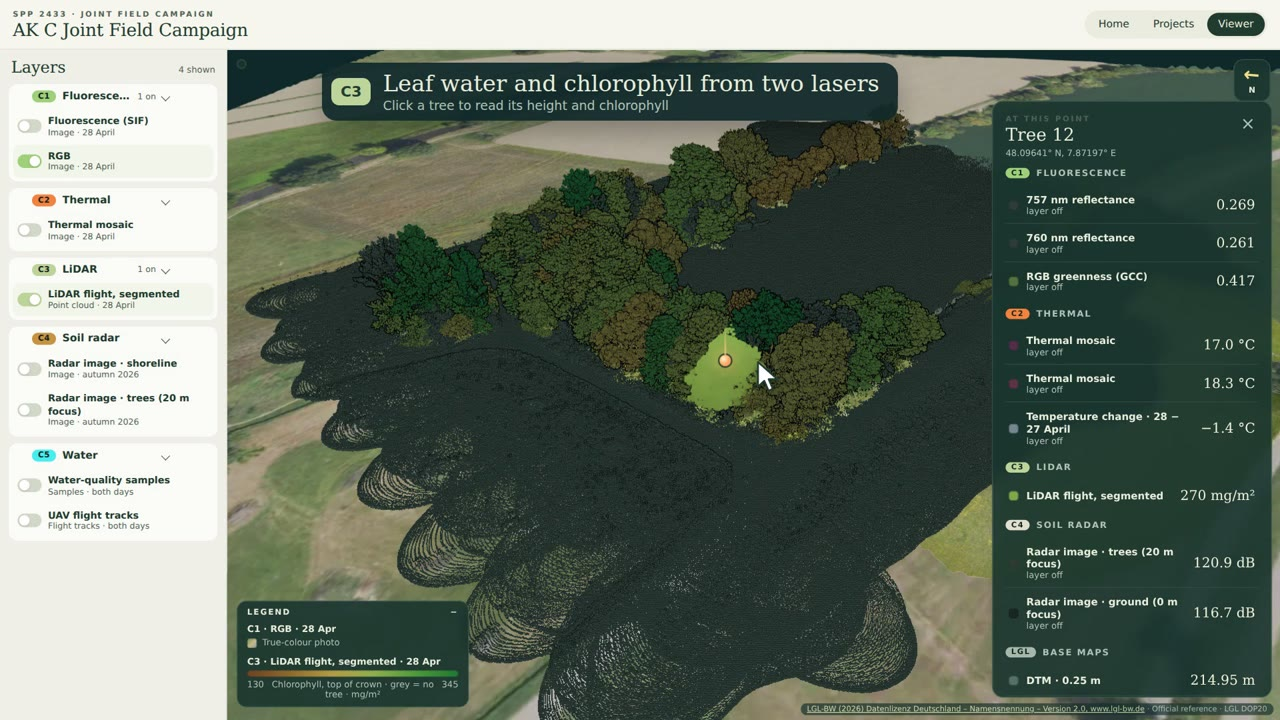
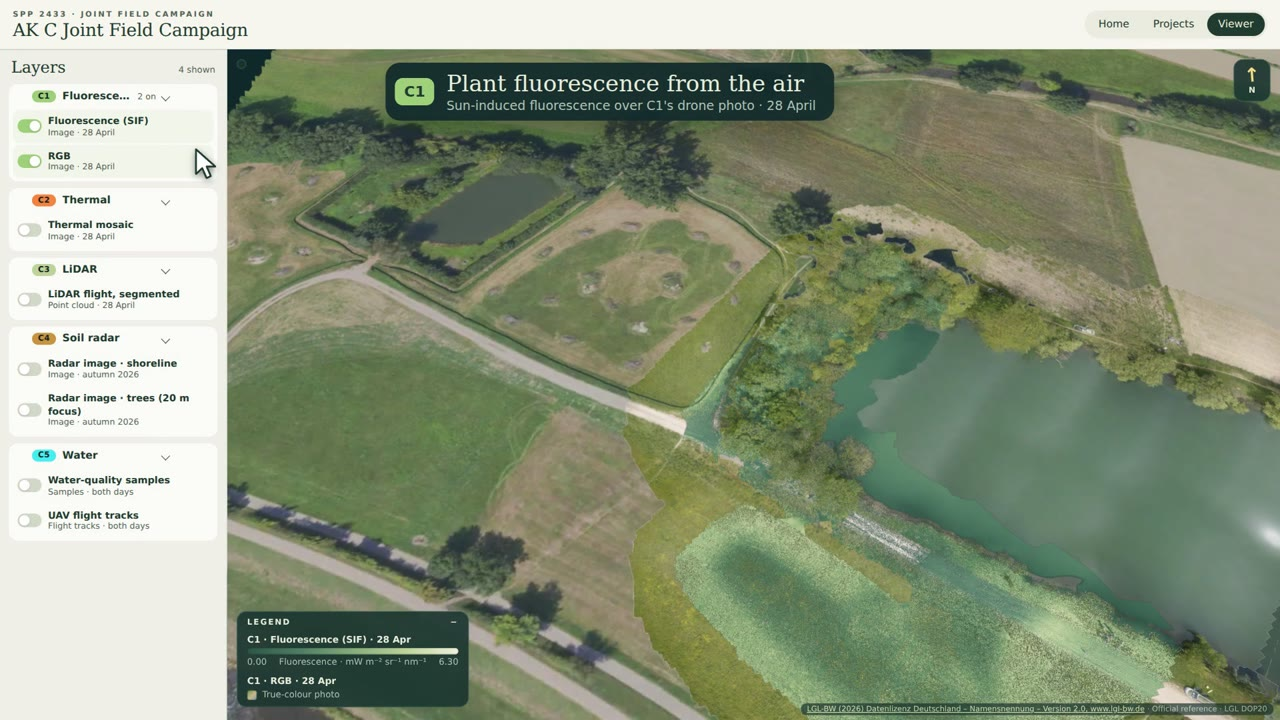
Deploy showcase e265db6: trailer poster from the C1 segment

diff --git a/trailer/README.md b/trailer/README.md
@@ -3,6 +3,6 @@
 The Home page plays `ak-c-campaign-trailer.mp4` with `ak-c-campaign-trailer-poster.jpg` ([Landing.tsx](../../src/components/Landing.tsx)). Both files are kept out of Git (.gitignore). Copy them here before a Pages build.
 
 - `ak-c-campaign-trailer.mp4` = `/mnt/data/kg281/ak-c/video/viewer-30s/out/ak-c-viewer-v6-share.mp4` (trailer v6, 26 Oct 2026, 33.7 s, 1920 × 1080, H.264 4.1 Mbit/s), sha256 2d337a9011e5eb1681455e6461a6b33d0ccd329f0133120110323200b5006e16.
-- `ak-c-campaign-trailer-poster.jpg` = frame 540 of `ak-c-viewer-v6.mp4` (C3 tree 12 pick), scaled to 1280 px.
+- `ak-c-campaign-trailer-poster.jpg` = frame 200 of `ak-c-viewer-v6.mp4` (C1 segment, no inspector values), scaled to 1280 px.
 
 How the trailer is made: the README in `/mnt/data/kg281/ak-c/video/viewer-30s` (local on geos, v6 section).
